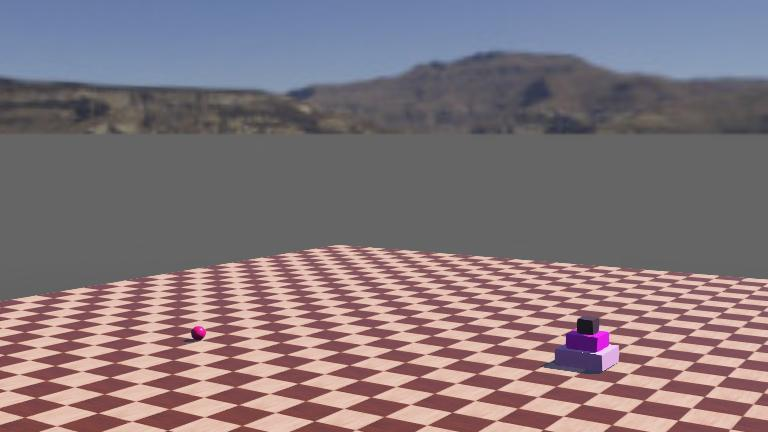
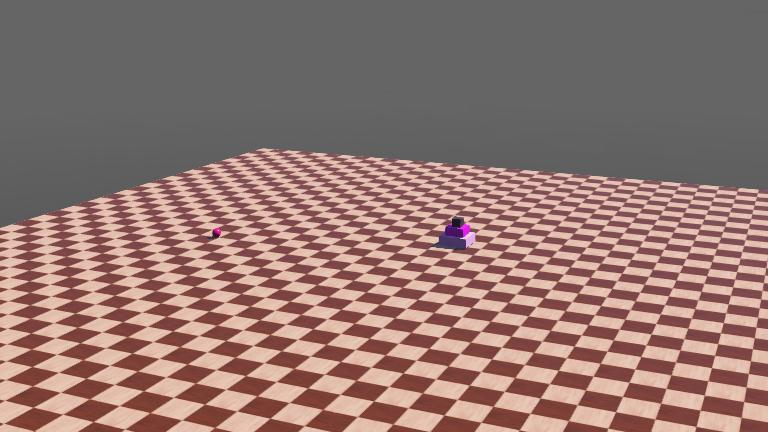
basis of launch/relaunch system
This is the foundation for all the projectile code - still has one small issue but reset works well.

diff --git a/controllers/atlas_controller/atlas_controller.py b/controllers/atlas_controller/atlas_controller.py
@@ -28,8 +28,12 @@ radar = RadarSystem(projectile)
 projectile_system = ProjectileSystem(projectile)
 
 #Ensuring that it intially launches:
+projectile_launched = False
+reset_time = 0
+launch_delay = 2000 #2 secs
+
 projectile_system.launch_projectile()
-resetting = False #This is to ensure that projectile properly relaunches
+projectile_launched = True
 
 #----------------------MAIN LOOP ---------------------------------
 while robot.step(timestep) != -1:
@@ -49,12 +53,17 @@ while robot.step(timestep) != -1:
     #Getting the projectile launching and resetting:
     projectile_position = projectile.getPosition()
     
-    if projectile_position[1] < 0.05 and not resetting:
+    current_time = robot.getTime() * 1000 #converting to ms
+    #Detecting when the projectile hits the ground:
+    if projectile_position[1] < 0.05 and projectile_launched:
         projectile_system.reset_projectile()
-        resetting = True
-    elif resetting:
+        reset_time = current_time
+        projectile_launched = False
+        
+    #Relaunching after the delay
+    if not projectile_launched and (current_time - reset_time > launch_delay):
         projectile_system.launch_projectile()
-        resetting = False
+        projectile_launched = True
     
     
     #Working through the radar system:

diff --git a/controllers/atlas_controller/projectile_system.py b/controllers/atlas_controller/projectile_system.py
@@ -1,13 +1,22 @@
 class ProjectileSystem:
 
+#Intial position of projectile:  [2.59591e-05, -2.53, 0.04984303999999999]
+
   def __init__(self,projectile):
     self.projectile = projectile
+    self.spawn_position = [0, 1.2, 0]
     
   def launch_projectile(self):
     #self.projectile.setVelocity([0, 5, 5, 0, 0, 0]) #z controls the height
-    self.projectile.setVelocity([3, 5, 10, 0, 0, 0])
+    #self.projectile.setVelocity([3, 5, 10, 0, 0, 0])
+    self.projectile.setVelocity([0, 4, 6, 0, 0, 0])
 
   def reset_projectile(self):
-     translation_field = self.projectile.getField("translation")
-     translation_field.setSFVec3f([0, 1, 0])
-     self.projectile.resetPhysics()
+    #Making sure projectile isn't moving
+    self.projectile.setVelocity([0,0,0,0,0,0])
+    self.projectile.resetPhysics()
+    translation_field = self.projectile.getField("translation")
+ 
+    translation_field.setSFVec3f([0, 1, 0])
+    #Spawn position
+    translation_field.setSFVec3f(self.spawn_position)
